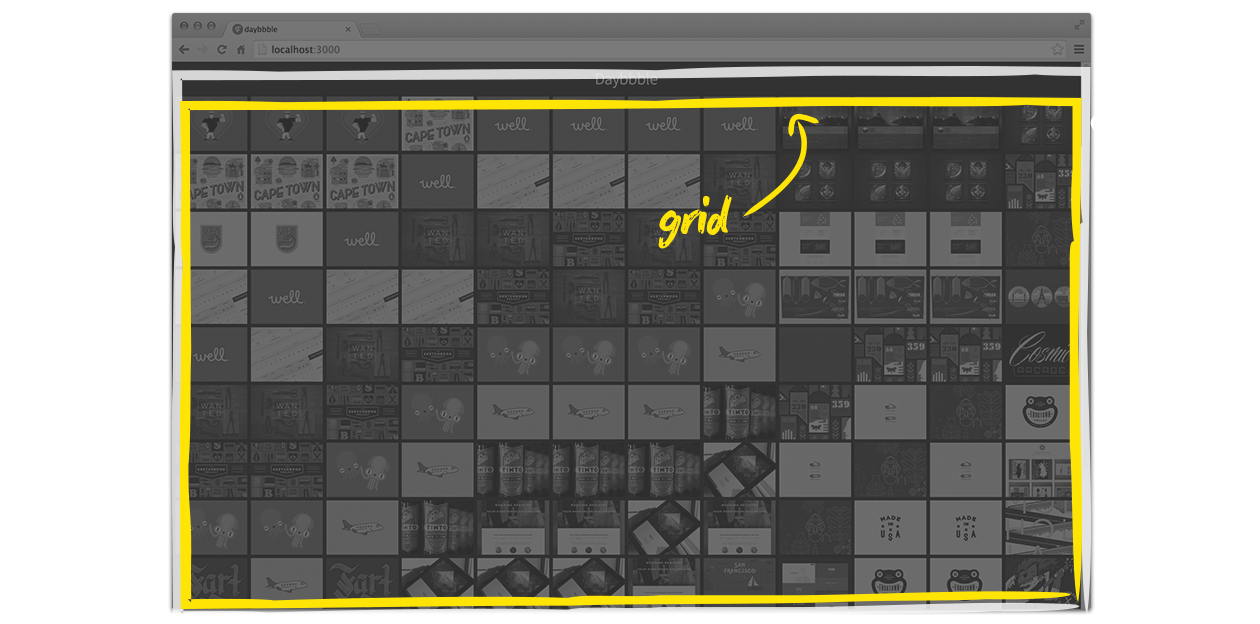
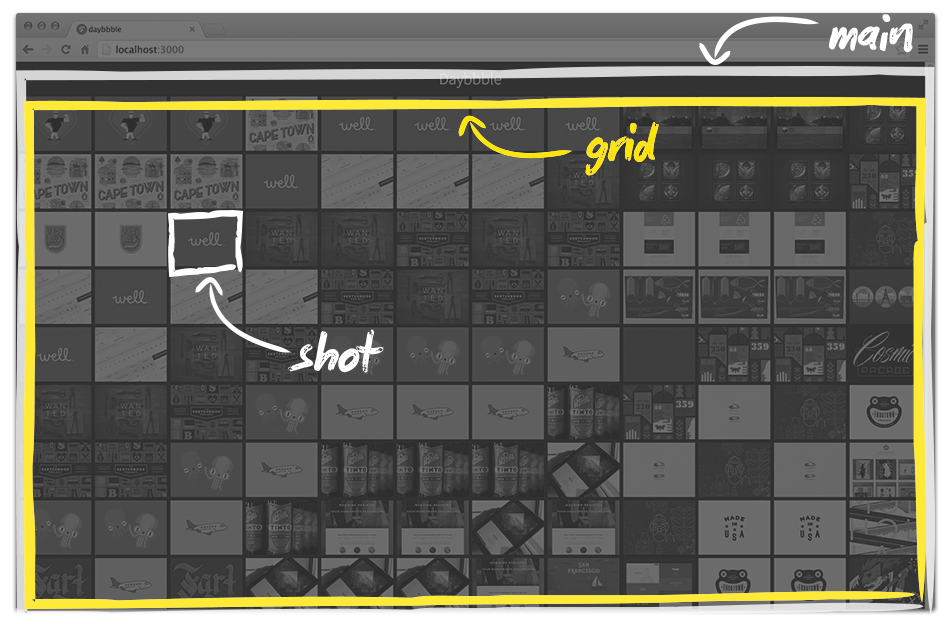
highlighting

diff --git a/index.html b/index.html
@@ -106,11 +106,11 @@
 		    height: 700,
 
 		    // Factor of the display size that should remain empty around the content
-		    margin: 0.1,
+		    margin: 0,
 
 		    // Bounds for smallest/largest possible scale to apply to content
 		    minScale: 0.9,
-		    maxScale: 0.9
+		    maxScale: 1.5
 			});
 
 
@@ -165,12 +165,13 @@
 
 		    // reset index
 		    highlightIndex = 0;
-
+				$('.highlight').removeClass('highlight-visible');
+				
 				var index = Reveal.getIndices().h;
 				console.log(index)
 				$('body').removeClass('full-frame split-layout1 split-layout2');
 
-				if (index == 17){
+				if (index == 22){
 					$('body').addClass('split-layout1');
 				}
 

diff --git a/css/elements.css b/css/elements.css
@@ -160,6 +160,7 @@ p.test:before{
 .reveal section .noborder{
   border:none;
   background: none;
+  box-shadow: none;
 }
 .reveal .slides>section, .reveal .slides>section>section{
   padding: 0;
@@ -204,4 +205,17 @@ p.test:before{
 }
 .shutdown{
   filter: grayscale(100%);
+}
+/*.reveal img{
+  max-width: 100%;
+  max-height: 100%;
+}*/
+.c1{
+  float: left;
+  width: 49%;
+  margin-right: 2%;
+}
+.c2{
+  float: right;
+  width: 49%;
 }

diff --git a/contents.md b/contents.md
@@ -3,18 +3,37 @@
 
 
 
-## About Me
-@SachaGreif
-
-
-
 # How It All Started
+
+
+
+<img src="images/portfolio.png" class="noborder big">
+
+
+
+<img src="images/blog.png" class="noborder big">
+
+
+
+<img src="images/ebook.png" class="noborder big">
+
+
+
+<img src="images/thetoolbox.png" class="noborder big">
+
+
+
+<img src="images/folyo.png" class="noborder big">
 
 
 
 <img src="images/hackernews.png" class="noborder big">
 Note:
 At the time, there wasn't anything like Hacker News for designers. 
+
+
+
+<img src="images/designernews.png" class="noborder big">
 
 
 
@@ -93,7 +112,7 @@ The Dribbble homepage: the 12 most popular “shots”.
 
 
 
-## Gribbble
+## Grid + Dribbble =
 
 
 
@@ -138,18 +157,18 @@ meteor
 
 ## Remove Meteor's placeholder files.
 ```bash
-rm gribbble.css 
-rm gribbble.html 
-rm gribbble.js
+gribbble.css 
+gribbble.html 
+gribbble.js
 ```
 
 
 
 ## Create three directories
 ```bash
-mkdir client
-mkdir server
-mkdir collections
+/client
+/server
+/collections
 ```
 
 
@@ -176,6 +195,7 @@ Copy-paste the stylesheet into `client/style.css`.
 Snapshots = new Meteor.Collection('snapshots');
 ```
 <div class="file">`/collections/snapshots.js` (both)</div>
+<div class="highlight" data-coordinates="[null, 'top:111px; left: 56px; height: 40px; width: 134px;', 'top:111px; left: 275px; height: 40px; width: 244px;', 'top:111px; left: 525px; height: 40px; width: 150px;']"></div>
 <!-- <a href="javascript:void(0)" class="commit-link" data-value="c1-3">Run</a> -->
 <!-- <p class="test">`Snapshots.find().fetch()`</p> -->
 <!-- ## The Dribbble API -->
@@ -187,6 +207,7 @@ Snapshots = new Meteor.Collection('snapshots');
 ```bash
 meteor add http
 ```
+
 
 
 ## Query the Dribbble API
@@ -204,7 +225,7 @@ var queryAPI = function () {
 ```
 <div class="file">`/server/api.js` (server)</div>
 <!-- <a href="javascript:void(0)" class="commit-link" data-value="c1-4">Run</a> -->
-<div class="highlight" data-coordinates="[null, 'top:207px; left: 54px; height: 37px; width: 806px;', 'top:286px; left: 54px; height: 37px; width: 397px;', 'top:325px; left: 81px; height: 37px; width: 537px;', 'top:402px; left: 137px; height: 37px; width: 559px;', 'top:441px; left: 137px; height: 37px; width: 355px;']"></div>
+<div class="highlight" data-coordinates="[null, 'top:113px; left: 54px; height: 37px; width: 806px;', 'top:190px; left: 54px; height: 37px; width: 397px;', 'top:230px; left: 81px; height: 37px; width: 537px;', 'top:307px; left: 137px; height: 37px; width: 559px;', 'top:346px; left: 137px; height: 37px; width: 355px;']"></div>
 
 
 
@@ -220,16 +241,19 @@ Meteor.setInterval(queryAPI, 3600000);
 
 
 ### Displaying Data
-<p><img src="images/ui-diagram.png" class="noborder"></p>
+<img src="images/ui-diagram.png" class="noborder">
 
 
 
-## The Main Template
-<p><img src="images/main.png" class="noborder big"></p>
+<img src="images/templates.png" class="noborder big">
 
 
 
-## The Main Template
+<img src="images/main.png" class="noborder big">
+
+
+
+## The `main` Template
 ```html
 <head>
   <title>Gribbble</title>
@@ -246,12 +270,11 @@ Meteor.setInterval(queryAPI, 3600000);
 
 
 
-## The Grid
-<p><img src="images/grid.png" class="noborder big"></p>
+<img src="images/grid.png" class="noborder big">
 
 
 
-## The Grid
+## The `grid` Template
 ```html
 <template name="grid">
   <div class="grid">
@@ -298,7 +321,7 @@ Template.grid.helpers({
 
 
 
-<p><img src="images/dribbble-api.png" class="noborder "></p>
+<img src="images/dribbble-api.png" class="noborder ">
 
 
 
@@ -322,12 +345,11 @@ Template.grid.helpers({
 
 
 
-## The Shot
-<p><img src="images/shot.png" class="noborder big"></p>
+<img src="images/shot.png" class="noborder big">
 
 
 
-## Add Shot Template
+## The `shot` Template
 ```js
 <template name="shot">
   <a href="{{url}}" target="_blank" class="grid-shot">
@@ -336,7 +358,7 @@ Template.grid.helpers({
 </template>
 ```
 <div class="file">`/client/shot.html` (client)</div>
-<div class="highlight" data-coordinates="[null, 'top:151px; left: 212px; height: 40px; width: 98px;', 'top:189px; left: 253px; height: 40px; width: 275px;']"></div>
+<div class="highlight" data-coordinates="[null, 'top:111px; left: 56px; height: 40px; width: 314px;', 'top:151px; left: 212px; height: 40px; width: 98px;', 'top:189px; left: 253px; height: 40px; width: 275px;']"></div>
 <!-- <a href="javascript:void(0)" class="commit-link" data-value="c2-5">Run</a> -->
 
 
@@ -378,42 +400,42 @@ meteor remove insecure
 
 
 
-## Your Data
+### Your Data
 <p><img src="images/bookstore.jpg" class="border shutdown"></p>
 
 
 
-## Publishing
+### Publishing
 <p><img src="images/publication.jpg" class="border"></p>
 
 
 
-## Subscribing
+### Subscribing
 <p><img src="images/subscription.jpg" class="border"></p>
 
 
 
 ## Add a Publication
 ```js
-Meteor.publish('snapshots', function() {
+Meteor.publish('snapshots', function(clientLimit) {
   return Snapshots.find(
     {}, 
     {
       sort: {timestamp: -1}, 
-      limit: 12
+      limit: clientLimit
     }
   );
 });
 ```
 <div class="file">`/server/publications.js` (server)</div>
-<div class="highlight" data-coordinates="[null, 'top:111px; left: 53px; height: 40px; width: 208px;', 'top:111px; left: 263px; height: 40px; width: 158px;', 'top:150px; left: 83px; height: 273px; width: 373px;']"></div>
+<div class="highlight" data-coordinates="[null, 'top:111px; left: 53px; height: 40px; width: 208px;', 'top:111px; left: 263px; height: 40px; width: 158px;', 'top:111px; left: 555px; height: 40px; width: 178px;', 'top:150px; left: 83px; height: 273px; width: 373px;', 'top:305px; left: 231px; height: 40px; width: 169px;']"></div>
 <!-- <a href="javascript:void(0)" class="commit-link" data-value="c3-2">Run</a> -->
 
 
 
 ## Subscribe to the Publication
 ```js
-Meteor.subscribe('snapshots');
+Meteor.subscribe('snapshots', 12);
 ```
 <div class="file">`/client/main.js` (client)</div>
 <a href="javascript:void(0)" class="commit-link" data-value="c3-3">Run</a>
